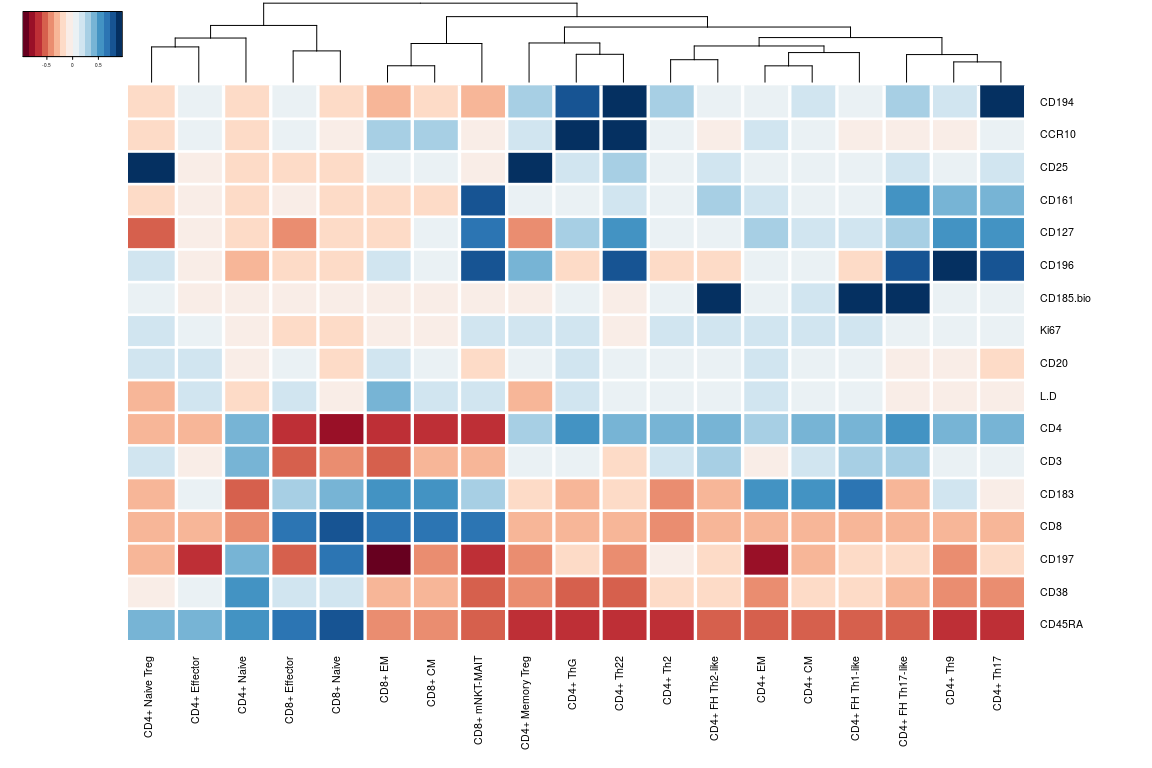
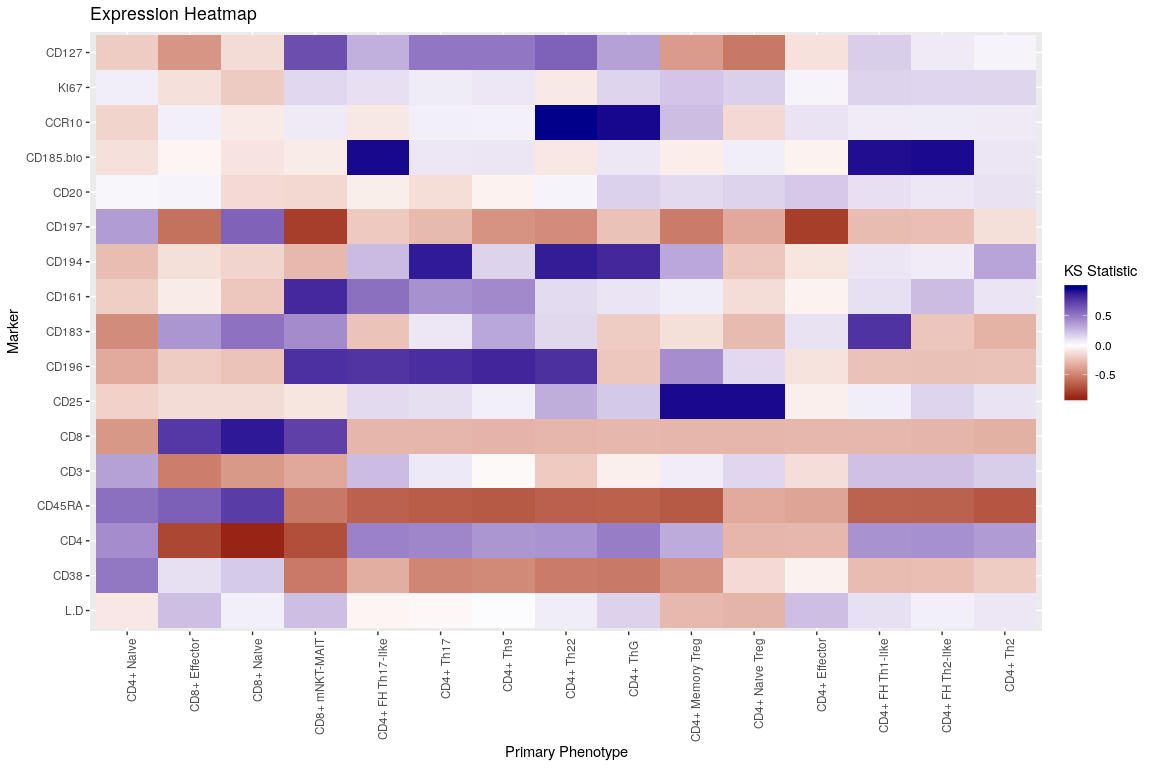
Separating phenotypes in OMIP 30 analysis

diff --git a/R/analysis/flow-repository/omip030.md b/R/analysis/flow-repository/omip030.md
@@ -11,8 +11,8 @@ library(FlowRepositoryR)
 library(flowCore)
 library(openCyto)
 library(ggcyto)
-library(gplots)
 library(Rtsne)
+library(reshape2)
 
 map <- purrr::map
 add <- flowCore::add
@@ -95,34 +95,45 @@ Identify terminal nodes in the workflow which were, by convention, named with ei
 
 ``` r
 all_nodes <- getNodes(gs, path=1)
-cell_nodes <- getNodes(gs, path=1) %>% str_match(., 'CD[4|8]\\+ .*') %>% discard(is.na)
-cell_type_to_class <- function(x) str_detect(x, 'CD4+') %>% ifelse('CD4+', 'CD8+') 
-cell_class <- cell_type_to_class(cell_nodes) %>% set_names(cell_nodes)
-cell_nodes_th2 <- c('CD4+ Th2g1', 'CD4+ Th2g2')
-cell_nodes
+cell_pops <- all_nodes %>% keep(str_detect(., '^CD[4|8]\\+ .*'))
+
+not.is.na <- function(x) !is.na(x)
+cell_pop_to_class <- function(x) case_when(
+  str_detect(x, '^CD4\\+') ~ 'CD4+',
+  str_detect(x, '^CD8\\+') ~ 'CD8+',
+  TRUE ~ NA_character_
+)
+cell_pop_to_mem_state <- function(x) case_when(
+  str_detect(x, '^CD[4|8]\\+ CM.*') ~ 'CM',
+  str_detect(x, '^CD[4|8]\\+ EM.*') ~ 'EM',
+  TRUE ~ NA_character_
+)
+  
+cell_mem_types <- cell_pops[cell_pops %>% cell_pop_to_mem_state %>% not.is.na]
+cell_pheno_types <- cell_pops %>% discard(~. %in% cell_mem_types)
 ```
 
 Show the gating for terminal nodes, which correspond to specific cell types:
 
 ``` r
-autoplot(gs[[1]], cell_nodes, bins=100, strip.text='gate', axis_inverse_trans=FALSE) + 
+autoplot(gs[[1]], cell_pops, bins=100, strip.text='gate', axis_inverse_trans=FALSE) + 
   ggcyto_par_set(facet=facet_wrap(~name, scales='free'), limits = list(x=c(0, 225), y=c(0, 225)))
 ```
 
 ![](omip030_files/figure-markdown_github/leaf_gates-1.png)
 
-Plot the distribution of different cell types noting that many cells are assigned to more than one cell type, and here any duplicate assignments are resolved by counting *all* cells assigned to any one type:
+Plot the distribution of different cell types noting that the memory phenotype (CM vs EM) exhibited by CD4+ and CD8+ cells is considered independent of the other T-helper, Regulatory, Effector and Naive phenotypes. For example, this means that a Th17 cell can also exhibit CM or EM cell markers (or neither). Before separating these designations, this distribution will show how frequent each phenotype is regardless of co-occurrence:
 
 ``` r
 cell_count <- getTotal(gh, 'T Cells')
 
 cell_pop <- getPopStats(gs) %>% 
-  filter(Population %in% cell_nodes) %>% 
+  filter(Population %in% cell_pops) %>% 
   select(Population, Count) %>% 
   arrange(Count)
 
 cell_pop %>%
-  mutate(Percent=Count/cell_count, Class=cell_type_to_class(Population)) %>% 
+  mutate(Percent=Count/cell_count, Class=cell_pop_to_class(Population)) %>% 
   arrange(desc(Percent)) %>% 
   mutate(Population=fct_reorder(Population, Percent)) %>%
   ggplot(aes(x=Population, y=Percent, fill=Class)) +
@@ -136,92 +147,56 @@ cell_pop %>%
 
 ![](omip030_files/figure-markdown_github/cell_type_distribution-1.png)
 
-To move forward though, determining a single cell type for each cell is done by using the label with the lowest frequency to maximize the size of populations relating to more rare cells. Before doing that, here is the frequency of all cell type assignments where multiple assignments are comma separated:
+Now assign a primary phenotype and a memory phenotype to each cell and show how frequent either occur together:
 
 ``` r
-cell_nodes %>% map(~getIndices(gh, .)) %>% bind_cols %>% 
-  apply(., 1, function(x) paste(cell_nodes[x], collapse=', ')) %>% 
-  tabyl(var1='assignment') %>%
-  arrange(n) %>% adorn_pct_formatting() %>%
+extract_node_assignment <- function(nodes) {
+  nodes %>% map(~getIndices(gh, .)) %>% bind_cols %>% 
+    set_names(nodes) %>% apply(., 1, function(x){
+      if (sum(x) == 1) nodes[x] 
+      else NA_character_
+    })
+}
+
+df_cell_types <- list(pheno_type=cell_pheno_types, mem_type=cell_mem_types) %>% 
+  map(extract_node_assignment) %>% as_tibble %>%
+  mutate(class_type=cell_pop_to_class(pheno_type)) %>%
+  mutate(pheno_type=case_when(
+    pheno_type %in% c('CD4+ Th2g1', 'CD4+ Th2g2') ~ 'CD4+ Th2', 
+    TRUE ~ pheno_type
+  ))
+
+df_cell_types %>% filter(!is.na(pheno_type)) %>% 
+  mutate(mem_type=case_when(is.na(mem_type) ~ 'None', TRUE ~ mem_type)) %>% 
+  tabyl(pheno_type, mem_type) %>% 
+  adorn_totals('row') %>% adorn_totals('col') %>%
+  adorn_percentages(denominator='all') %>% 
+  adorn_pct_formatting(digits=1) %>%
   knitr::kable()
 ```
 
-| .                                            |       n| percent |
-|:---------------------------------------------|-------:|:--------|
-| CD4+ CM, CD4+ FH Th17-like, CD4+ Naive Treg  |       1| 0.0%    |
-| CD4+ CM, CD4+ Memory Treg                    |       1| 0.0%    |
-| CD4+ CM, CD4+ Th17, CD4+ Naive Treg          |       1| 0.0%    |
-| CD4+ CM, CD4+ Th2g2, CD4+ Naive Treg         |       1| 0.0%    |
-| CD4+ EM, CD4+ Naive Treg                     |       1| 0.0%    |
-| CD4+ EM, CD4+ Th22, CD4+ Naive Treg          |       1| 0.0%    |
-| CD4+ EM, CD4+ Th2g2, CD4+ Memory Treg        |       1| 0.0%    |
-| CD4+ FH Th17-like                            |       1| 0.0%    |
-| CD4+ Th17                                    |       1| 0.0%    |
-| CD4+ Th2g1                                   |       1| 0.0%    |
-| CD4+ CM, CD4+ FH Th17-like, CD4+ Memory Treg |       2| 0.0%    |
-| CD4+ Th22                                    |       3| 0.0%    |
-| CD4+ Th2g2                                   |       3| 0.0%    |
-| CD4+ EM, CD4+ Th2g1, CD4+ Memory Treg        |       4| 0.0%    |
-| CD4+ FH Th2-like                             |       4| 0.0%    |
-| CD4+ Th9                                     |       4| 0.0%    |
-| CD4+ CM, CD4+ Th9, CD4+ Memory Treg          |       5| 0.0%    |
-| CD4+ EM, CD4+ Th17, CD4+ Memory Treg         |       5| 0.0%    |
-| CD4+ CM, CD4+ ThG , CD4+ Memory Treg         |       6| 0.0%    |
-| CD4+ Effector, CD4+ Naive Treg               |       6| 0.0%    |
-| CD4+ Naive, CD4+ Naive Treg                  |       7| 0.0%    |
-| CD4+ CM, CD4+ Th22, CD4+ Memory Treg         |      12| 0.0%    |
-| CD4+ CM, CD4+ Th2g1, CD4+ Memory Treg        |      12| 0.0%    |
-| CD4+ EM, CD4+ Th9, CD4+ Memory Treg          |      14| 0.0%    |
-| CD4+ CM, CD4+ Th17, CD4+ Memory Treg         |      15| 0.0%    |
-| CD8+ mNKT-MAIT, CD8+ Effector                |      18| 0.0%    |
-| CD4+ EM, CD4+ Th22, CD4+ Memory Treg         |      25| 0.0%    |
-| CD8+ mNKT-MAIT, CD8+ CM                      |     653| 0.0%    |
-| CD8+ mNKT-MAIT, CD8+ EM                      |     826| 0.0%    |
-| CD4+ EM, CD4+ FH Th1-like                    |    1335| 0.1%    |
-| CD4+ EM, CD4+ FH Th17-like                   |    1693| 0.1%    |
-| CD4+ EM, CD4+ FH Th2-like                    |    2453| 0.1%    |
-| CD4+ EM, CD4+ ThG                            |    2628| 0.2%    |
-| CD4+ EM, CD4+ Th2g1                          |    5223| 0.3%    |
-| CD4+ EM, CD4+ Th2g2                          |    5256| 0.3%    |
-| CD4+ EM, CD4+ Th17                           |    6185| 0.4%    |
-| CD4+ CM, CD4+ ThG                            |    6873| 0.4%    |
-| CD4+ CM, CD4+ FH Th1-like                    |    7019| 0.4%    |
-| CD4+ CM, CD4+ Th22                           |    7381| 0.4%    |
-| CD4+ EM, CD4+ Th22                           |    7564| 0.5%    |
-| CD8+ mNKT-MAIT                               |   11612| 0.7%    |
-| CD4+ CM, CD4+ FH Th2-like                    |   11868| 0.7%    |
-| CD4+ Effector                                |   12677| 0.8%    |
-| CD4+ CM, CD4+ Th17                           |   15732| 0.9%    |
-| CD4+ CM, CD4+ FH Th17-like                   |   15891| 1.0%    |
-| CD4+ Naive Treg                              |   18770| 1.1%    |
-| CD4+ EM                                      |   18937| 1.1%    |
-| CD8+ CM                                      |   19226| 1.2%    |
-| CD4+ Memory Treg                             |   19398| 1.2%    |
-| CD4+ EM, CD4+ Th9                            |   21043| 1.3%    |
-| CD4+ CM, CD4+ Th2g1                          |   22107| 1.3%    |
-| CD4+ CM, CD4+ Th9                            |   23019| 1.4%    |
-| CD4+ CM, CD4+ Th2g2                          |   23151| 1.4%    |
-| CD4+ CM                                      |   23465| 1.4%    |
-| CD8+ Effector                                |   39677| 2.4%    |
-| CD8+ EM                                      |   43847| 2.6%    |
-| CD8+ Naive                                   |  119979| 7.2%    |
-| CD4+ Naive                                   |  191831| 11.5%   |
-|                                              |  957133| 57.5%   |
+| pheno\_type       | CD4+ CM | CD4+ EM | CD8+ CM | CD8+ EM | None  | Total  |
+|:------------------|:--------|:--------|:--------|:--------|:------|:-------|
+| CD4+ Effector     | 0.0%    | 0.0%    | 0.0%    | 0.0%    | 2.1%  | 2.1%   |
+| CD4+ FH Th1-like  | 1.2%    | 0.2%    | 0.0%    | 0.0%    | 0.0%  | 1.4%   |
+| CD4+ FH Th17-like | 2.6%    | 0.3%    | 0.0%    | 0.0%    | 0.0%  | 2.9%   |
+| CD4+ FH Th2-like  | 2.0%    | 0.4%    | 0.0%    | 0.0%    | 0.0%  | 2.4%   |
+| CD4+ Memory Treg  | 0.0%    | 0.0%    | 0.0%    | 0.0%    | 3.2%  | 3.2%   |
+| CD4+ Naive        | 0.0%    | 0.0%    | 0.0%    | 0.0%    | 31.9% | 31.9%  |
+| CD4+ Naive Treg   | 0.0%    | 0.0%    | 0.0%    | 0.0%    | 3.1%  | 3.1%   |
+| CD4+ Th17         | 2.6%    | 1.0%    | 0.0%    | 0.0%    | 0.0%  | 3.6%   |
+| CD4+ Th2          | 7.5%    | 1.7%    | 0.0%    | 0.0%    | 0.0%  | 9.3%   |
+| CD4+ Th22         | 1.2%    | 1.3%    | 0.0%    | 0.0%    | 0.0%  | 2.5%   |
+| CD4+ Th9          | 3.8%    | 3.5%    | 0.0%    | 0.0%    | 0.0%  | 7.3%   |
+| CD4+ ThG          | 1.1%    | 0.4%    | 0.0%    | 0.0%    | 0.0%  | 1.6%   |
+| CD8+ Effector     | 0.0%    | 0.0%    | 0.0%    | 0.0%    | 6.6%  | 6.6%   |
+| CD8+ mNKT-MAIT    | 0.0%    | 0.0%    | 0.1%    | 0.1%    | 1.9%  | 2.2%   |
+| CD8+ Naive        | 0.0%    | 0.0%    | 0.0%    | 0.0%    | 19.9% | 19.9%  |
+| Total             | 22.1%   | 8.9%    | 0.1%    | 0.1%    | 68.8% | 100.0% |
 
-Choose one cell type for each cell:
+Given the above information, we're ready to extract the raw marker intensity data and attach enough cell metadata to it to do something useful:
 
 ``` r
-# For now, favor less frequent cell types when assigning single type
-get_cell_type <- function(x){
-  ctyps <- cell_nodes[x]
-  if (is_empty(ctyps)) NA
-  # Select rarest cell type if there are multiple
-  else cell_pop$Population[which.max(cell_pop$Population %in% ctyps)]
-}
-cell_types <- cell_nodes %>% map(~getIndices(gh, .)) %>% bind_cols %>% 
-  apply(., 1, get_cell_type) 
-cell_types <- case_when(cell_types %in% cell_nodes_th2 ~ 'CD4+ Th2', TRUE ~ cell_types)
-
 # Create data frame with measurments and cell type
 fr <- getData(gh)
 name_map <- parameters(fr)@data %>% filter(str_detect(name, 'Comp'))
@@ -229,57 +204,80 @@ name_map <- set_names(name_map$name, name_map$desc)
 df <- fr %>% exprs %>% as_tibble %>% 
   select(starts_with('Comp')) %>% 
   rename(!!name_map) %>%
-  mutate(type=cell_types) %>%
-  filter(!is.na(type)) %>%
-  mutate(class=cell_type_to_class(type))
+  cbind(df_cell_types) %>%
+  filter(!is.na(pheno_type))
+
+df %>% head(10) %>% knitr::kable()
 ```
 
-Calculate the Kolmogrov Smirnov statistic for each cell type and marker, where the reference sample for any one combination is all *other* T Cells (for the same marker):
+Now that the data is in a convenient form, one way to analyze this is to look at how well any one marker works to separate a primary phenotype from all others. Below, a Kolmogrov Smirnov statistic signed by median difference is used where for any one marker, all cells of a specific primary phenotype are compared to all cells of a different phenotype to give an overall sense of magnitude and direction of the separation:
 
 ``` r
-dfg <- df %>% group_by(type) %>% do({
+dfg <- df %>% group_by(pheno_type) %>% do({
   d <- .
-  #dp <- df %>% filter(type != d$type[1] & class == d$class[1]) %>% select_if(is.numeric)
-  dp <- df %>% filter(type != d$type[1]) %>% select_if(is.numeric)
+  dp <- df %>% filter(pheno_type != d$pheno_type[1]) %>% select_if(is.numeric)
   dt <- d %>% select_if(is.numeric)
   assertthat::are_equal(colnames(dp), colnames(dt))
   stats <- lapply(colnames(dp), function(col) {
     x <- pull(dt, col)
     y <- pull(dp, col)
-    stat <- ks.test(x, y)$statistic[[1]]
-    sign(median(x) - median(y)) * stat
+    sign(median(x) - median(y)) * ks.test(x, y)$statistic[[1]]
   })
   names(stats) <- colnames(dp)
   data.frame(stats)
 }) %>% ungroup
 
-dfm <- dfg %>% select(-type) %>% as.matrix
-row.names(dfm) <- dfg$type
-heatmap.2(
-  t(dfm), Rowv=TRUE, Colv=TRUE, 
-  col = colorRampPalette(RColorBrewer::brewer.pal(11, 'RdBu'))(16), cexCol=.8, cexRow=.8, 
-  margins = c(8, 8), 
-  dendrogram = 'col', trace='none', scale='none',
-  colsep=1:nrow(dfm), rowsep=1:ncol(dfm),
-  density.info='none', sepwidth=c(.05,.05), key.title='KS', key.xlab='', 
-  keysize=.5, key.par =list(cex=.3)
-)
+hc <- dfg %>% select_if(is.numeric) %>% as.matrix %>% dist %>% hclust
+dfg %>% melt(id.vars='pheno_type') %>% 
+  mutate(pheno_type=factor(pheno_type, levels=dfg$pheno_type[hc$order])) %>% 
+  ggplot(aes(x=pheno_type, y=variable, fill=value)) +
+  geom_tile() + 
+  scale_fill_gradient2(
+    low='darkred', mid='white', high='darkblue', 
+    guide=guide_colorbar(title='KS Statistic')) +
+  theme(axis.text.x = element_text(angle = 90, hjust = 1)) +
+  xlab('Primary Phenotype') + ylab('Marker') + 
+  ggtitle('Expression Heatmap')
 ```
 
 ![](omip030_files/figure-markdown_github/ks-1.png)
 
-Plot TSNE decomposition:
+TSNE decomposition shows how much more readily some phenotypes separate from others:
 
 ``` r
 set.seed(1)
-df_samp <- df %>% sample_n(10000)
-tsne <- df_samp %>% select(-type, -class) %>% as.matrix %>% Rtsne
-df_tsne <- tsne$Y %>% as_tibble %>%
-  mutate(type=df_samp$type, class=df_samp$class)
+df_samp <- df %>% sample_n(15000)
+tsne <- df_samp %>% select_if(is.numeric) %>% as.matrix %>% Rtsne
 
-df_tsne %>% mutate(type=factor(type, levels=sample(unique(type)))) %>%
-  ggplot(aes(x=V1, y=V2, color=type, shape=class)) + geom_point() +
-  flow_theme
+df_tsne <- tsne$Y %>% as_tibble %>% 
+  cbind(df_samp %>% select(pheno_type, mem_type, class_type)) %>%
+  mutate(mem_type=case_when(is.na(mem_type) ~ 'None', TRUE ~ mem_type))
+
+get_density <- function(x, y){
+  d <- densCols(x, y, colramp = colorRampPalette(rev(rainbow(10, end = 4/6))))
+  col2rgb(d)[1,] + 1L
+}
+
+plot_tsne <- function(df){
+  df_ctr <- df %>% group_by(pheno_type) %>% 
+    summarize(cx=median(V1), cy=median(V2)) %>% ungroup
+  df_pt <- df %>% group_by(pheno_type) %>% 
+    mutate(dens=get_density(V1, V2), mem_type=mem_type[1]) %>% ungroup 
+  
+  ggplot(NULL) + 
+    geom_point(data=df_pt, aes(x=V1, y=V2, color=pheno_type, alpha=dens, shape=mem_type)) +
+    geom_label(data=df_ctr, aes(x=cx, y=cy, color=pheno_type, label=pheno_type), size=3, alpha=.7) +
+    flow_theme
+}
+
+df_tsne %>% plot_tsne +
+  # Add axis/legend/figure titles
+  ggtitle('T Cell TSNE Decomposition') +
+  guides(
+    colour = guide_legend(title='Primary Phenotype'), 
+    shape = guide_legend(title='Memory State'), 
+    alpha = 'none'
+  ) + xlab('') + ylab('')
 ```
 
 ![](omip030_files/figure-markdown_github/tsne-1.png)
